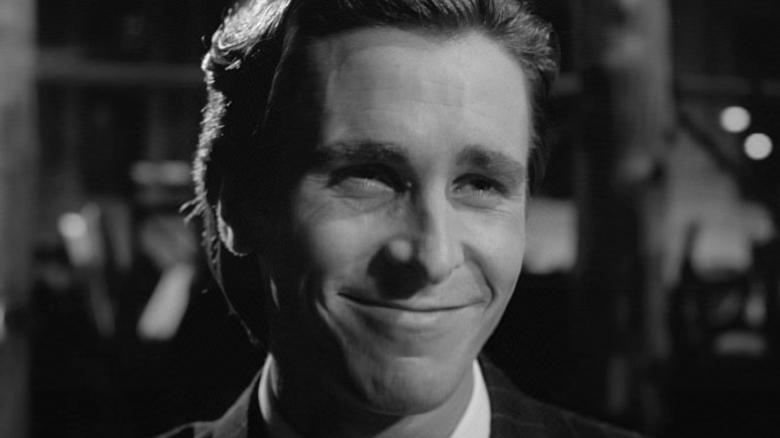
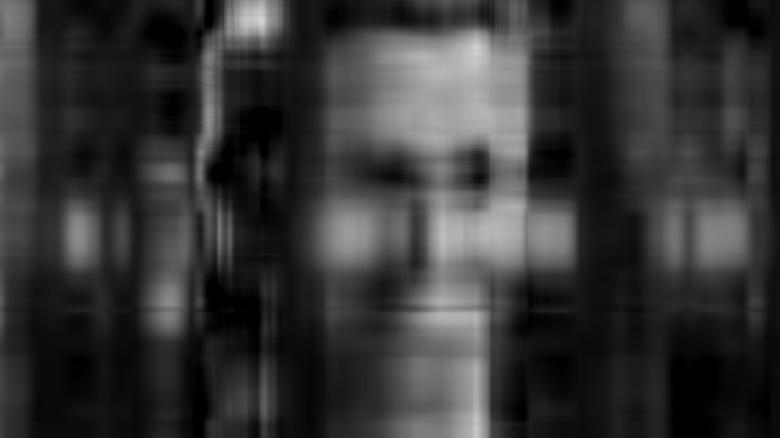
main.py now does not directly work with images

diff --git a/main.py b/main.py
@@ -1,23 +1,18 @@
-from PIL import Image
-import numpy as np
 import ask_user
 import img_utils
 
 if __name__=="__main__":
     png_imgs = img_utils.get_image_paths(folder_path='images')
     img_to_open = ask_user.ask_img_to_open(png_imgs)
+    compr_perc = ask_user.ask_img_compression_percentage()
 
     print("Please, wait...")
-    gray_img_arr = np.asarray(Image.open(png_imgs[img_to_open - 1]).convert('L'))
-    U, S, V = svd_gray_img_arr = np.linalg.svd(gray_img_arr)
-    dim_S = S.shape[0]
-
-    compr_val = ask_user.ask_img_compr_val(dim_S)
-    compr_img = np.matrix(U[:, :compr_val]) * np.diag(S[:compr_val]) * np.matrix(V[:compr_val, :])
-
-    # using 'np.uint8(compr_img)' instead of 'convert(par)' causes some pixels to be missing
-    reconst_img = Image.fromarray(compr_img).convert('L')
+    img_path = png_imgs[img_to_open - 1]
+    img = img_utils.read_image(img_path)
+    compr_img = img_utils.compress_grayscale_img(img, compr_perc)
     
-    path_to_save = png_imgs[img_to_open - 1].replace("images", "compr_images")
-    reconst_img.save(path_to_save)
-    print("Done! Check compressed image at path " + path_to_save)
+    save_path = img_utils.save_img(compr_img, img_path)
+    if (save_path != None):
+        print(f"Done! Check compressed image at path {save_path}")
+    else:
+        print("We're sorry, something went wrong")

diff --git a/ask_user.py b/ask_user.py
@@ -8,18 +8,18 @@ def ask_img_to_open(images:list):
             for image_path in images:
                 print(os.path.basename(image_path))
 
-            image_to_open = int(input("Enter image number (int) in range " + "1..." + str(len(images)) + ": "))
+            image_to_open = int(input(f"Enter image number in range 1...{len(images)}: "))
         except ValueError:
             pass
 
     return image_to_open
 
-def ask_img_compr_val(dim:int):
-    compr_val = 0
-    while not (0 < compr_val <= dim):
+def ask_img_compression_percentage():
+    compr_perc = 0
+    while not (0 < compr_perc < 100):
         try:
-            compr_val = int(input("Enter compression value (int) in range " + "1..." + str(dim) + ": "))
+            compr_perc = float(input("Enter compression percentage (1..99%): "))
         except ValueError:
             pass
-        
-    return compr_val
+    
+    return compr_perc

diff --git a/img_utils.py b/img_utils.py
@@ -1,3 +1,5 @@
+from PIL import Image
+import numpy as np
 import os
 import glob
 
@@ -11,3 +13,23 @@ def get_image_paths(folder_path: str):
         image_paths.extend(glob.glob(os.path.join(full_path, '*.' + ext)))
 
     return image_paths
+
+def read_image(path:str):
+    return Image.open(path)
+
+def save_img(img:Image, path:str):
+    path_to_save = path.replace("images", "compr_images")
+    img.convert('RGB').save(path_to_save)
+    return path_to_save
+
+def compress_grayscale_img(img:Image, compr_perc:int):
+    gray_img_arr = np.asarray(img.convert('L'))
+    U, S, V = np.linalg.svd(gray_img_arr)
+
+    dim_S = S.shape[0]
+    compr_val = dim_S - int(dim_S * (compr_perc / 100))
+
+    if (dim_S < compr_val or compr_val <= 0):
+        return U * S * V
+
+    return Image.fromarray(np.matrix(U[:, :compr_val]) * np.diag(S[:compr_val]) * np.matrix(V[:compr_val, :]))
